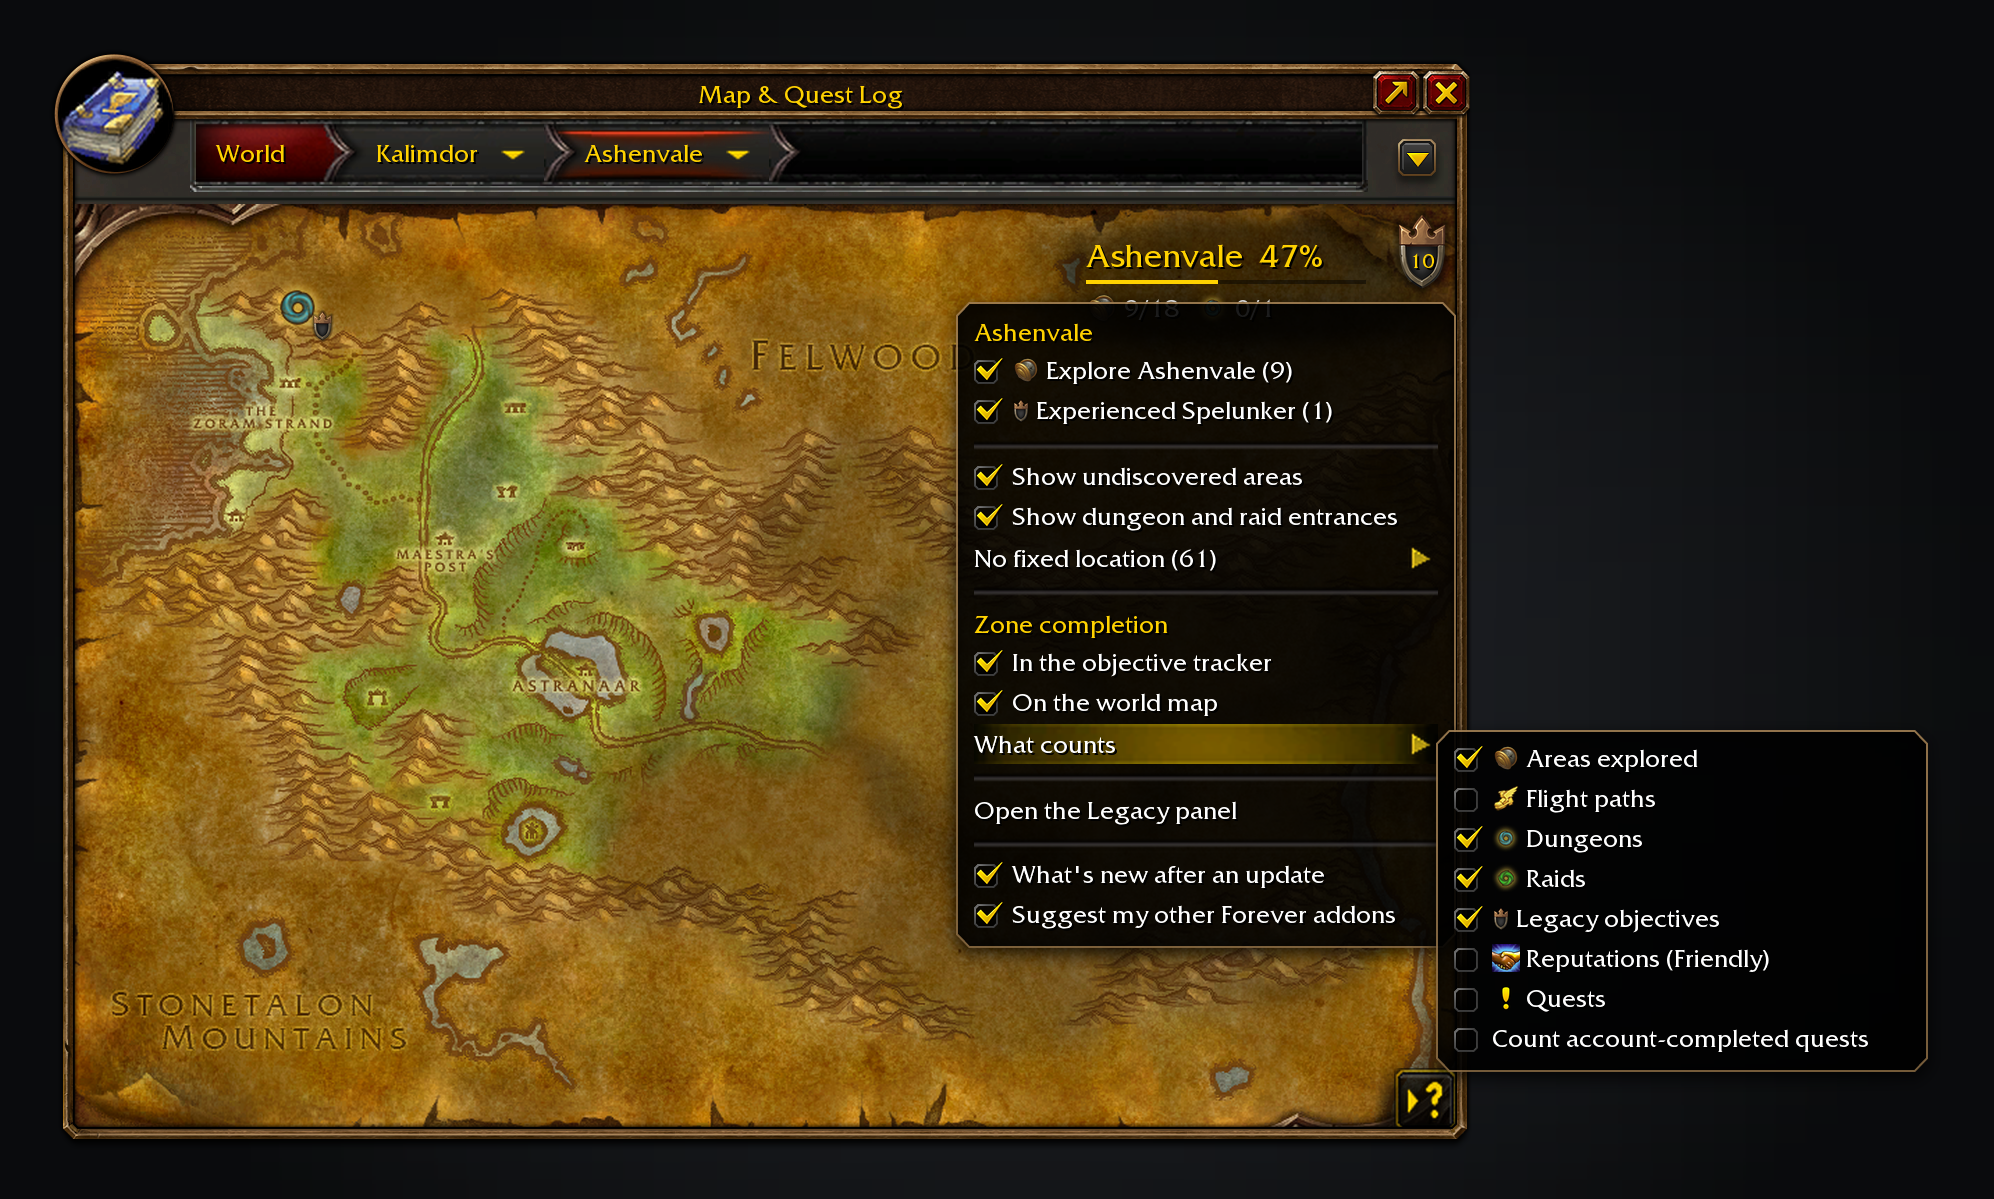
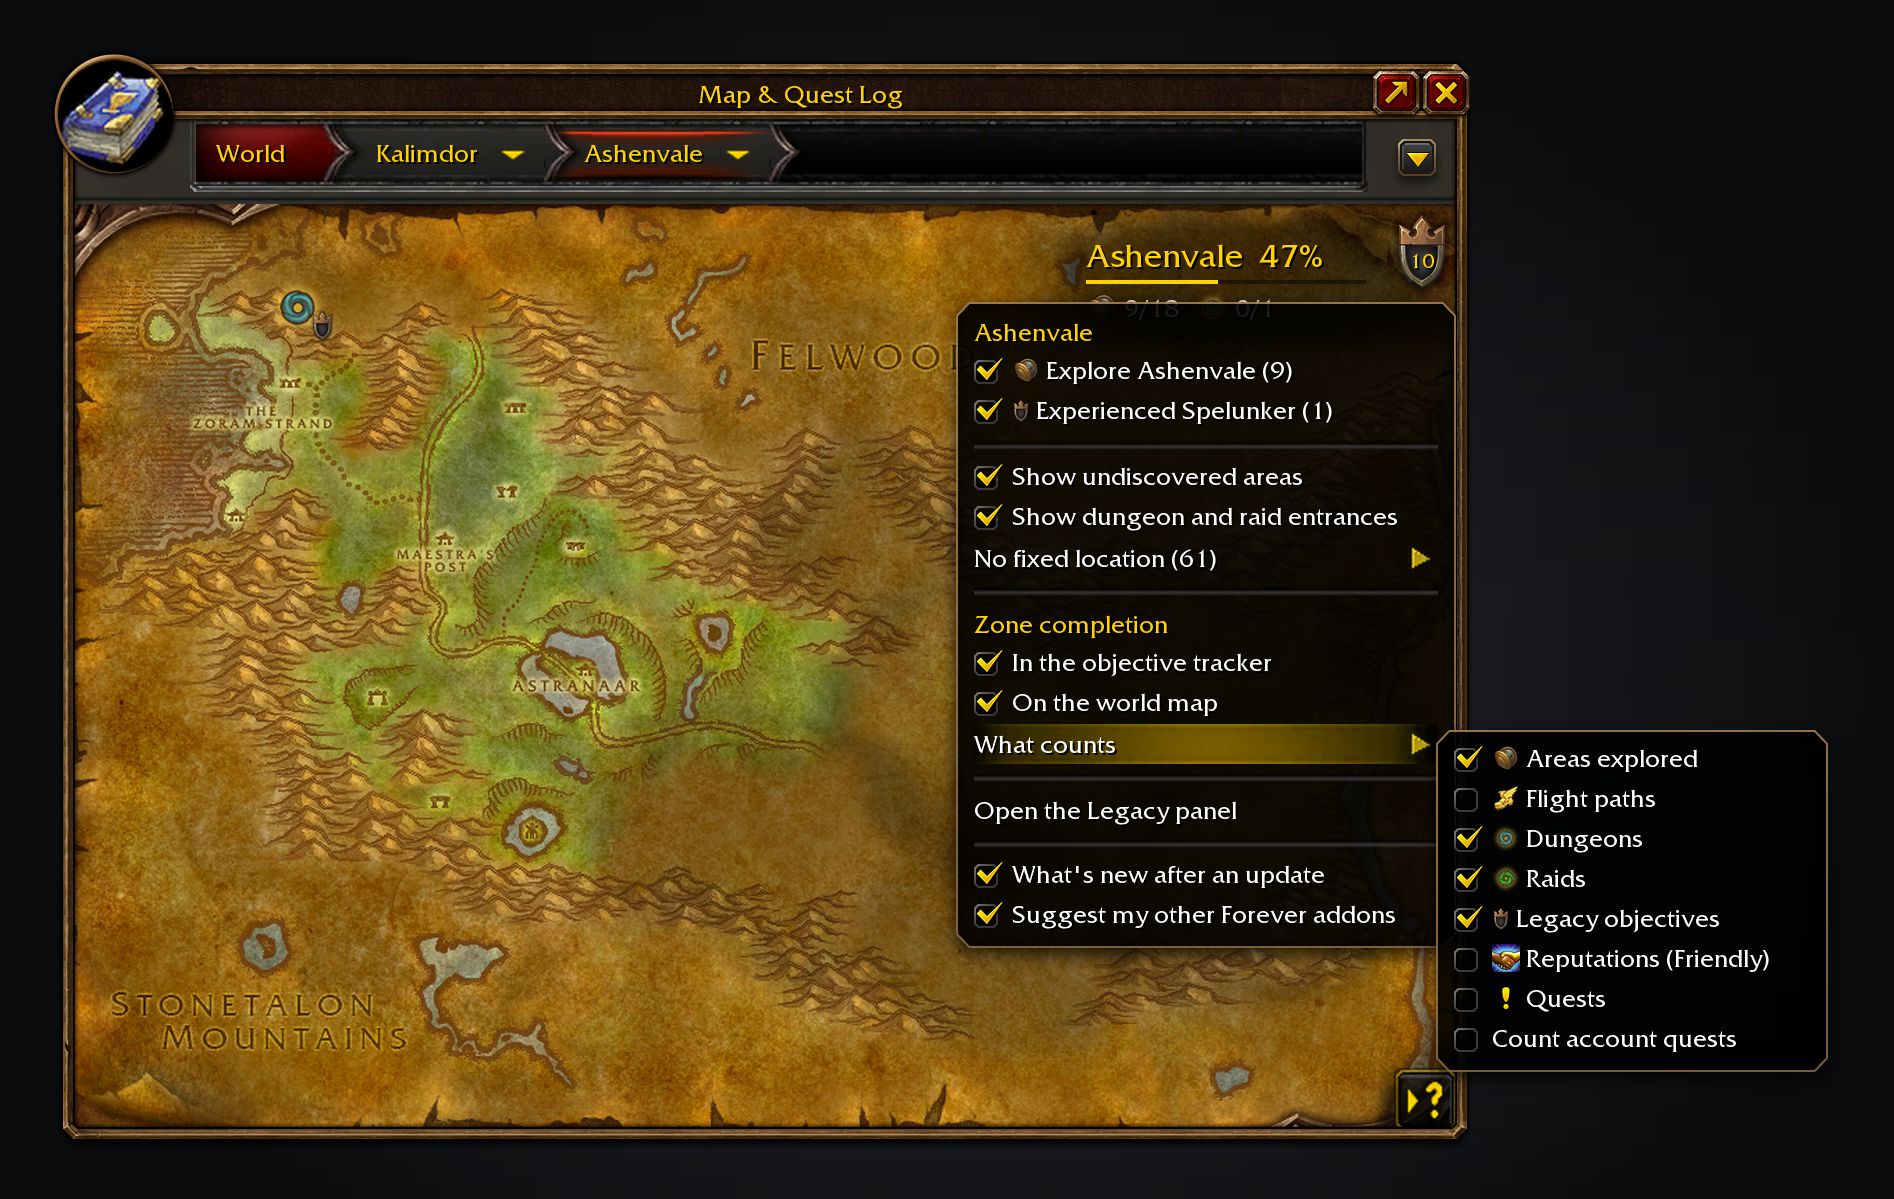
fix(settings): shorten the account quests label so it fits its row
The Settings row cut "Count account-completed quests" off at the label
column and ran it into the tick box. It now reads "Count account quests"
in every locale; the tooltip keeps the full explanation.

Claude-Session: https://claude.ai/code/session_01KXatHHxgpyrbNuhzHFGYbP

Changed region(s): [[0.0312, 0.0309, 0.9345, 0.9566]]

diff --git a/tools/screenshots.py b/tools/screenshots.py
@@ -725,7 +725,7 @@ def render_account_quests(ui, data, live):
         MenuCheckbox(f"{icon(ui, key, 14)} {label}", key in {"areas", "dungeons", "raids", "legacy"})
         for key, label in zip(keys, labels, strict=True)
     ]
-    counts.append(MenuCheckbox("Count account-completed quests", False))
+    counts.append(MenuCheckbox("Count account quests", False))
     child, cx, cy, _ = menu_at(ui, counts, left=rx + rw, top=ry)
     return scene(ui, [(canvas, 0, 0), (menu, x, y), (child, cx, cy)])
 

diff --git a/docs/zone-completion.md b/docs/zone-completion.md
@@ -24,7 +24,7 @@ is read from the game. The README says
   once, with either side of an exclusive choice counting as the same quest. Repeatable, daily and dungeon quests are
   left out, and so is any quest behind a profession, reputation or spell, or after a choice that could shut it,
   since whether you can take it isn't certain. A quest counts as done once you've turned it in, or its follow-up.
-- **Count account-completed quests**, beside Quests under "What counts", starts off. Turn it on to count quests completed by any character on your account. The eligible quests still match your current character's race and class; areas, flight paths, reputations and Legacy objectives keep their usual rules. It uses the client's account completion information, including the existing exclusive-choice and follow-up rules. If the client lacks account quest completion, the switch is disabled with an explanation and only character completion counts. No saved list from other characters is inferred.
+- **Count account quests**, beside Quests under "What counts", starts off. Turn it on to count quests completed by any character on your account. The eligible quests still match your current character's race and class; areas, flight paths, reputations and Legacy objectives keep their usual rules. It uses the client's account completion information, including the existing exclusive-choice and follow-up rules. If the client lacks account quest completion, the switch is greyed out with an explanation and only character completion counts. No saved list from other characters is inferred.
 - **Rares** are left out: the client doesn't say which belong to a zone, and no openly licensed list covers Forever.
 
 ## Where it shows

diff --git a/CHANGELOG.md b/CHANGELOG.md
@@ -12,7 +12,7 @@ optional `### For addon authors` subsection after a version's player bullets.
 
 ## [Unreleased]
 
-- **Count quests finished by your other characters.** The optional "Count account-completed quests" switch beside Quests uses account progress while keeping the quests eligible for your current character. It starts off, and clients without account quest progress keep character-only counts, thanks to cotijelucie for the idea.
+- **Count quests finished by your other characters.** The optional "Count account quests" switch beside Quests uses account progress while keeping the quests eligible for your current character. It starts off, and clients without account quest progress keep character-only counts, thanks to cotijelucie for the idea.
 
 ## [2.3.11] - 2026-11-15
 
